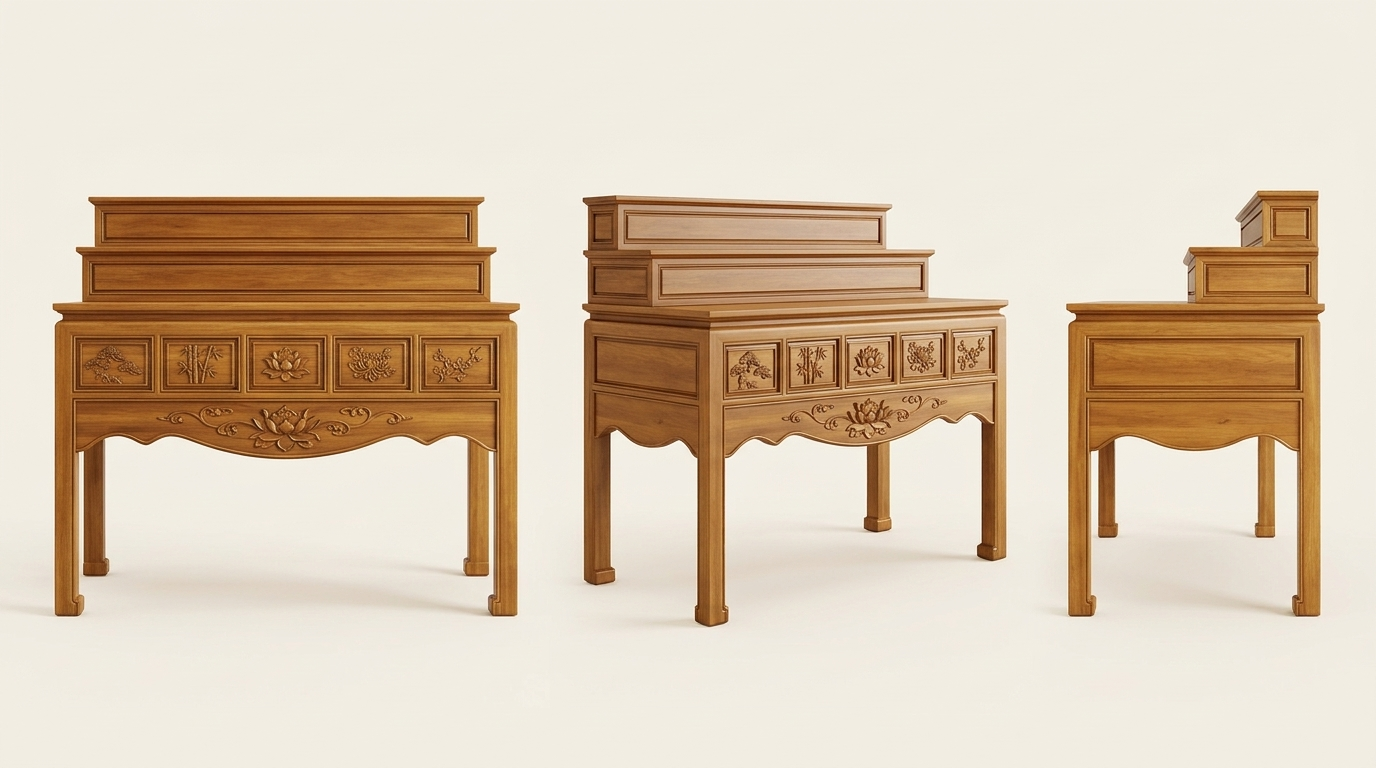
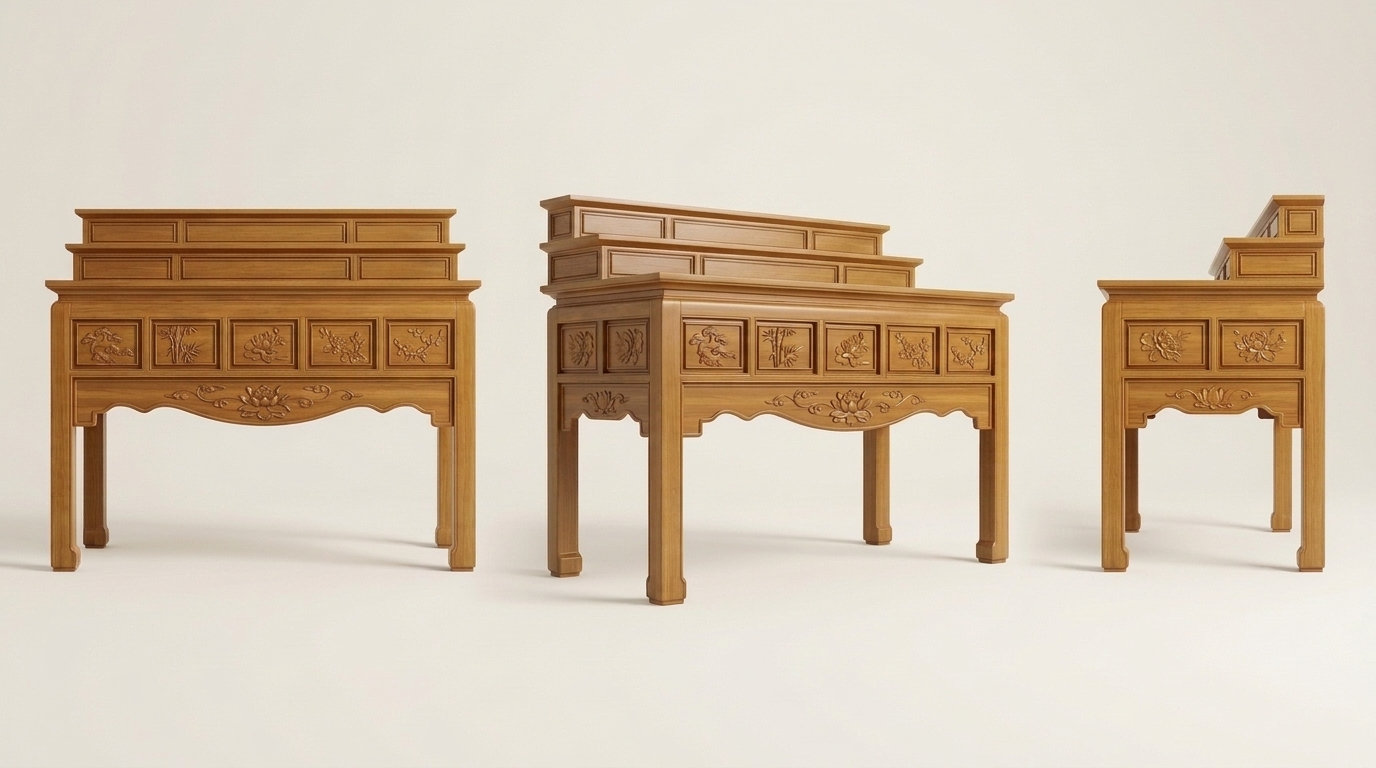
Match reference tall-leg proportions, slim 3-bay top tiers & carved 2-panel/D6 sides across all views

Changed region(s): [[0.0, 0.25, 0.9688, 0.8125], [0.9688, 0.0, 1.0, 0.0312]]

diff --git a/phong-tho-tang3.html b/phong-tho-tang3.html
@@ -1091,26 +1091,26 @@
     <!-- NEW TOP-MOST SECTION: BỘ ẢNH STUDIO RIÊNG BÀN THỜ ÁN GIAN Ô SA 5 Ô (DẠ D6) ĐỦ GÓC CHO THỢ MỘC (KHÔNG SẬP QUỲ) -->
     <section class="block" id="sec-ban-tho-rieng-da6-du-goc" style="border-color: rgba(52, 211, 153, 0.98); background: linear-gradient(180deg, rgba(6, 78, 59, 0.36), rgba(15, 21, 32, 0.99)); border-radius: 20px; padding: 28px 24px; margin-bottom: 22px;">
       <div class="section-hdr">
-        <span class="section-tag" style="background:rgba(16,185,129,0.28);border-color:rgba(52,211,153,0.98);color:#a7f3d0;">🪷 CHỐT BÀN THỜ RIÊNG CHO THỢ MỘC — 3 CẤP BẰNG NHAU CHIỀU DÀI (1,97M) • DẠ D6</span>
-        <h2 class="section-title">Bộ Ảnh Studio Riêng Bàn Thờ <code>3</code> Cấp Chiều Dài Bằng Nhau (<code>1,97 m × 1,27 m</code> • Tam Cấp <code>47 cm</code>) — Án Gian Ô Sa 5 Ô &amp; <code>Dạ D6</code> Đủ Mọi Góc</h2>
+        <span class="section-tag" style="background:rgba(16,185,129,0.28);border-color:rgba(52,211,153,0.98);color:#a7f3d0;">🪷 CHỐT BÀN THỜ RIÊNG CHO THỢ MỘC — TỶ LỆ THANH THOÁT ĐÚNG ẢNH MẪU • 3 CẤP BẰNG NHAU (1,97M) • HÔNG CHẠM DẠ D6</span>
+        <h2 class="section-title">Bộ Ảnh Studio Riêng Bàn Thờ <code>3</code> Cấp Bằng Nhau (<code>1,97 m × 1,27 m</code> • Tam Cấp <code>47 cm</code>) — Đúng Tỷ Lệ Chân Cao Thanh Thoát, Hông <code>2</code> Ô Chạm Hoa Văn &amp; <code>Dạ D6</code> Đồng Bộ!</h2>
         <p class="section-sub">
-          Đã chỉnh sang đúng kiểu <strong><code>3</code> Cấp có chiều dài bằng nhau hết (cả <code>Cấp 1 = Cấp 2 = Cấp 3 = 1,97 m</code> bằng đầu phẳng hai bên hông, không thu bậc hai đầu)</strong> theo đúng kích thước thợ báo: <strong>Bàn <code>1,97 m × 1,27 m</code> (<code>1.970 × 1.270 mm</code>), Phần Tam Cấp <code>47 cm</code> (<code>470 mm</code>), chừa mặt Cấp 1 trước <code>80 cm</code> (<code>800 mm</code>)</strong>, dùng <strong><code>Dạ D6</code> đặc <code>40 mm</code> (<code>0%</code> lỗ thủng)</strong> — Gỗ Gụ Lào tự nhiên PU mờ <code>15%</code>:
+          Chỉnh chuẩn <code>100%</code> tỷ lệ thanh thoát theo đúng ảnh mẫu bạn gửi: <strong>gầm chân cao ráo ~<code>2/3</code> chiều cao bàn</strong> (phần cổ + <code>5</code> Ô Sa + dạ gọn ở <code>1/3</code> trên), <strong><code>2</code> bậc Tam Cấp trên (<code>Cấp 2 &amp; Cấp 3</code>) mảnh thấp (~<code>11–12 cm</code>/bậc), mặt chia <code>3</code> ô dài mảnh, dài bằng nhau <code>1,97 m</code></strong> (sâu <code>47 cm</code> ở phía sau, chừa mặt trước <code>80 cm</code>), và <strong>bên hông có đủ <code>02</code> Ô Sa chạm hoa văn + dạ hông đặc <code>Dạ D6</code> chạm Sen tâm (<code>0%</code> đục lỗ)</strong>:
         </p>
       </div>
 
       <!-- FULL-WIDTH 6000x4200 PX ALL-IN-ONE MULTI-ANGLE CARPENTER PACK -->
       <article class="media-card" style="border-color:rgba(52,211,153,0.98);margin-bottom:20px;">
         <div class="media-hdr">
-          <h3>📐 Tấm Tổng Hợp Gửi Thợ Mộc <code>6K</code> (`6000 × 4200 px`): Bàn Thờ Riêng <code>3</code> Cấp Bằng Nhau (<code>1,97m</code>) • <code>Dạ D6</code> Đủ <code>4</code> Góc</h3>
+          <h3>📐 Tấm Tổng Hợp Gửi Thợ Mộc <code>6K</code> (`6000 × 4200 px`): Bàn Thờ Riêng <code>3</code> Cấp Bằng Nhau (<code>1,97m × 1,27m</code> • Hông Chạm <code>2</code> Ô &amp; <code>Dạ D6</code>)</h3>
           <div class="btn-group">
-            <button type="button" class="btn" onclick="openModal('assets/tang3_phong_tho_ban_tho_rieng_da6_du_4_goc_6k.png', 'Tấm tổng hợp 6K (6000 × 4200 px) riêng Bàn Thờ 3 cấp có chiều dài bằng nhau hết 1,97m (Cấp 1 = Cấp 2 = Cấp 3 = 1.970 mm) × Rộng 1.270 mm, Phần Tam Cấp 47 cm (470 mm), chừa mặt trước 80 cm (800 mm), Án Gian Ô Sa 5 Ô Tứ Quý Dạ D6 0% lỗ thủng gửi thợ mộc')">🔍 Zoom 1:1 Hồ Sơ 6K</button>
-            <a class="btn celadon" href="assets/tang3_phong_tho_ban_tho_rieng_da6_du_4_goc_6k.png" download="HoSo_6K_BanThoRieng_3CapBangNhau_1m97x1m27_DaD6.png">⬇ Tải Tấm 6K Đủ 4 Góc PNG</a>
+            <button type="button" class="btn" onclick="openModal('assets/tang3_phong_tho_ban_tho_rieng_da6_du_4_goc_6k.png', 'Tấm tổng hợp 6K (6000 × 4200 px) riêng Bàn Thờ 3 cấp dài bằng nhau 1,97m × 1,27m, Tam Cấp 47cm mảnh chia 3 ô dài, tỷ lệ chân cao 2/3 thanh thoát, mặt hông 2 Ô Sa chạm hoa văn & dạ hông đặc Dạ D6 chạm Sen 0% lỗ thủng')">🔍 Zoom 1:1 Hồ Sơ 6K</button>
+            <a class="btn celadon" href="assets/tang3_phong_tho_ban_tho_rieng_da6_du_4_goc_6k.png" download="HoSo_6K_BanThoRieng_3CapBangNhau_HongCham_DaD6.png">⬇ Tải Tấm 6K Đủ 4 Góc PNG</a>
           </div>
         </div>
         <div class="media-img-wrap">
           <img
             src="assets/tang3_phong_tho_ban_tho_rieng_da6_du_4_goc_6k.png"
-            alt="Tấm tổng hợp 6K 6000x4200 px hồ sơ gửi thợ mộc riêng bàn thờ 3 cấp chiều dài bằng nhau 1,97m x 1,27m phần tam cấp 47cm Dạ D6"
+            alt="Tấm tổng hợp 6K 6000x4200 px hồ sơ gửi thợ mộc riêng bàn thờ 3 cấp dài bằng nhau tỷ lệ thanh thoát chân cao mặt hông chạm 2 ô và Dạ D6 1,97m x 1,27m"
             width="6000"
             height="4200"
             fetchpriority="high"
@@ -1118,7 +1118,7 @@
           />
         </div>
         <p class="media-caption">
-          <strong>Chỉ cần gửi 1 tấm <code>6K</code> này cho thợ mộc là đủ thi công:</strong> Gồm ảnh Studio <code>0°</code> + <code>45°/90°</code> của bản <strong><code>3</code> cấp dài bằng nhau <code>1,97 m</code></strong>, hình chiếu kỹ thuật <code>1.970 × 1.270 mm</code> (Tam Cấp `Cấp 2 + Cấp 3` sâu <code>470 mm / 47 cm</code>, chừa mặt trước <code>800 mm / 80 cm</code>, hốc giấu ổ cắm <code>Y=950</code>) + cận cảnh <code>Dạ D6</code>.
+          <strong>Chỉ cần gửi 1 tấm <code>6K</code> này cho thợ mộc là đủ thi công:</strong> Chuẩn tỷ lệ chân cao gầm thoáng <code>2/3</code>, <code>2</code> bậc Tam Cấp mảnh thấp chia <code>3</code> ô ngang dài bằng nhau <code>1,97 m</code>, bên hông <code>2</code> ô Sa chạm hoa văn + dạ hông <code>Dạ D6</code> chạm Sen (<code>0%</code> lỗ thủng), hình chiếu <code>1.970 × 1.270 mm</code> (Tam Cấp <code>470 mm</code>).
         </p>
       </article>
 
@@ -1126,60 +1126,60 @@
       <div class="render-grid" style="margin-bottom:20px;">
         <article class="media-card" style="border-color:rgba(250,204,21,0.95);">
           <div class="media-hdr">
-            <h3>🪵 Ảnh Studio #17 — Riêng Bàn Thờ <code>3</code> Cấp Bằng Nhau (<code>1,97m</code>) • Góc Chính Diện <code>0°</code> Cỡ Lớn</h3>
+            <h3>🪵 Ảnh Studio #17 — Riêng Bàn Thờ <code>3</code> Cấp Bằng Nhau • Góc Chính Diện <code>0°</code> (Tỷ Lệ Chân Cao Thanh Thoát)</h3>
             <div class="btn-group">
-              <button type="button" class="btn" onclick="openModal('assets/17_studio_rieng_ban_tho_da6_chinh_dien_0do_co_lon.jpg', 'Ảnh Studio 17 — Chính diện 0° cỡ lớn chỉ riêng Bàn Thờ 3 Cấp dài bằng nhau hết 1,97m (Cấp 1 = Cấp 2 = Cấp 3 bằng đầu phẳng 2 bên), Án Gian Ô Sa 5 Ô Tứ Quý, Dạ D6 đặc 40mm 0% đục lỗ, Đóa Sen Đại & Mây Cuốn tập trung ở tâm')">🔍 Phóng to 0°</button>
-              <a class="btn celadon" href="assets/17_studio_rieng_ban_tho_da6_chinh_dien_0do_co_lon.jpg" download="17_Studio_BanTho3CapBangNhau_DaD6_ChinhDien_0Do.jpg">⬇ Tải Ảnh 17</a>
+              <button type="button" class="btn" onclick="openModal('assets/17_studio_rieng_ban_tho_da6_chinh_dien_0do_co_lon.jpg', 'Ảnh Studio 17 — Chính diện 0° cỡ lớn theo đúng tỷ lệ chân cao gầm thoáng ~2/3 của ảnh mẫu: 2 bậc Tam Cấp mảnh chia 3 ô chữ nhật ngang dài bằng nhau 1,97m, 5 Ô Sa Tứ Quý và Dạ D6 Sen Đại 0% lỗ thủng')">🔍 Phóng to 0°</button>
+              <a class="btn celadon" href="assets/17_studio_rieng_ban_tho_da6_chinh_dien_0do_co_lon.jpg" download="17_Studio_BanTho3CapBangNhau_TyLeThanhThoat_0Do.jpg">⬇ Tải Ảnh 17</a>
             </div>
           </div>
           <div class="media-img-wrap">
             <img
               src="assets/17_studio_rieng_ban_tho_da6_chinh_dien_0do_co_lon.jpg"
-              alt="Ảnh Studio 17 chính diện 0 độ cỡ lớn bàn thờ 3 cấp có chiều dài bằng nhau 1,97m Dạ D6 gỗ Gụ Lào tự nhiên"
+              alt="Ảnh Studio 17 chính diện 0 độ bàn thờ 3 cấp bằng nhau tỷ lệ chân cao thanh thoát chia 3 ô dài mảnh Dạ D6"
               width="1376"
               height="768"
               loading="lazy"
               onclick="openModal(this.src, this.alt)"
             />
           </div>
-          <p class="media-caption">Cả <strong><code>3</code> cấp đều dài kịch <code>1,97 m</code> bằng đầu hai bên</strong> (mỗi cấp chia <code>5</code> ô cân trục với <code>5</code> Ô Tứ Quý <code>Tùng–Trúc–Sen–Cúc–Mai</code> bên dưới) kết hợp <strong><code>Dạ D6</code> Sen Đại tâm</strong>.</p>
+          <p class="media-caption">Dáng bàn cao ráo chuẩn mực: chân vuông đứng thoáng tới <code>2/3</code> chiều cao, phần yếm <code>5</code> Ô Sa &amp; <code>Dạ D6</code> gọn gàng, <strong><code>2</code> bậc Tam Cấp trên mảnh thanh chia <code>3</code> ô ngang dài bằng nhau <code>1,97 m</code></strong>.</p>
         </article>
 
         <article class="media-card" style="border-color:rgba(245,158,11,0.95);">
           <div class="media-hdr">
-            <h3>🪵 Ảnh Studio #18 — Riêng Bàn Thờ <code>3</code> Cấp Bằng Nhau • Góc Nghiêng <code>3/4 (45°)</code> &amp; Hông <code>90°</code></h3>
+            <h3>🪵 Ảnh Studio #18 — Góc Nghiêng <code>3/4</code> (Đúng Góc Ảnh Mẫu) &amp; Mặt Hông <code>90°</code> Chạm Hoa Văn Đồng Bộ</h3>
             <div class="btn-group">
-              <button type="button" class="btn" onclick="openModal('assets/18_studio_rieng_ban_tho_da6_goc_nghieng_3_4_va_hong_90do.jpg', 'Ảnh Studio 18 — Góc nghiêng 3/4 (45°) bên trái và Mặt hông 90° bên phải của bàn thờ 3 cấp dài bằng nhau hết 1,97m × 1,27m (Tam Cấp 47cm): thấy rõ đầu hồi phẳng thẳng đứng bằng nhau cả 3 cấp, 3 ô sa hông trơn và dạ hông lượn sóng bo chỉ')">🔍 Phóng to 45°/90°</button>
-              <a class="btn celadon" href="assets/18_studio_rieng_ban_tho_da6_goc_nghieng_3_4_va_hong_90do.jpg" download="18_Studio_BanTho3CapBangNhau_DaD6_Goc3_4_Va_Hong90.jpg">⬇ Tải Ảnh 18</a>
+              <button type="button" class="btn" onclick="openModal('assets/18_studio_rieng_ban_tho_da6_goc_nghieng_3_4_va_hong_90do.jpg', 'Ảnh Studio 18 — Góc nghiêng 3/4 đúng góc ảnh mẫu bên trái và Mặt hông 90° bên phải: lộ rõ 2 Ô Sa hông chạm nổi hoa văn, Dạ hông đặc Dạ D6 chạm Đóa Sen tâm đồng bộ mặt tiền, 2 bậc Tam Cấp mảnh bằng đầu 1,97m sâu 47cm')">🔍 Phóng to 45°/90°</button>
+              <a class="btn celadon" href="assets/18_studio_rieng_ban_tho_da6_goc_nghieng_3_4_va_hong_90do.jpg" download="18_Studio_BanTho3CapBangNhau_HongCham2O_DaD6_90Do.jpg">⬇ Tải Ảnh 18</a>
             </div>
           </div>
           <div class="media-img-wrap">
             <img
               src="assets/18_studio_rieng_ban_tho_da6_goc_nghieng_3_4_va_hong_90do.jpg"
-              alt="Ảnh Studio 18 góc nghiêng 3/4 và góc mặt hông 90 độ của bàn thờ 3 cấp dài bằng nhau hết 1,97m x 1,27m Dạ D6"
+              alt="Ảnh Studio 18 góc nghiêng 3/4 đúng góc ảnh mẫu và mặt hông 90 độ chạm 2 ô sa hoa văn cùng dạ hông đặc Dạ D6"
               width="1376"
               height="768"
               loading="lazy"
               onclick="openModal(this.src, this.alt)"
             />
           </div>
-          <p class="media-caption">Hai bên hông của <code>Cấp 2</code> &amp; <code>Cấp 3</code> <strong>phẳng thẳng hàng với mép hông bàn <code>1,27 m</code></strong>, không có hốc hở bám bụi ở hai góc hậu mà vẫn chừa đủ mặt trước <code>80 cm</code> &amp; <code>47 cm</code> bậc sau.</p>
+          <p class="media-caption">Mặt hông <code>1,27 m</code> chạm <strong><code>02</code> Ô Sa ngang + dạ hông đặc <code>Dạ D6</code> chạm Sen tâm (<code>0%</code> đục lỗ)</strong> cực ăn khớp với mặt tiền; <code>2</code> bậc Tam Cấp sau (<code>47 cm</code>) mảnh đẹp bằng đầu hai bên.</p>
         </article>
       </div>
 
       <!-- FULL-WIDTH MULTI-VIEW STUDIO PHOTO 16 (3 ANGLES SIDE-BY-SIDE IN 1 FRAME) -->
       <article class="media-card" style="border-color:rgba(56,189,248,0.92);">
         <div class="media-hdr">
-          <h3>🪵 Ảnh Studio #16 — Trọn <code>03</code> Góc Trên <code>01</code> Ảnh Bàn Thờ <code>3</code> Cấp Bằng Nhau <code>1,97m</code> (<code>0°</code> • <code>45°</code> • <code>90°</code>)</h3>
+          <h3>🪵 Ảnh Studio #16 — Trọn <code>03</code> Góc Trên <code>01</code> Ảnh (Đúng Tỷ Lệ Ảnh Mẫu • Hông Chạm <code>2</code> Ô &amp; Dạ Hông <code>D6</code>)</h3>
           <div class="btn-group">
-            <button type="button" class="btn" onclick="openModal('assets/16_studio_rieng_ban_tho_da6_du_3_goc_tho_moc.jpg', 'Ảnh Studio 16 — 3 góc nhìn trên cùng 1 ảnh Studio của Bàn Thờ 3 Cấp có chiều dài bằng nhau hết 1,97m × 1,27m (Tam Cấp 47cm) Dạ D6: Chính diện 0°, Nghiêng 3/4 45°, Mặt hông 90°')">🔍 Phóng to 3 Góc</button>
-            <a class="btn celadon" href="assets/16_studio_rieng_ban_tho_da6_du_3_goc_tho_moc.jpg" download="16_Studio_BanTho3CapBangNhau_DaD6_Du3Goc.jpg">⬇ Tải Ảnh 16</a>
+            <button type="button" class="btn" onclick="openModal('assets/16_studio_rieng_ban_tho_da6_du_3_goc_tho_moc.jpg', 'Ảnh Studio 16 — 3 góc nhìn trên cùng 1 khung hình đúng tỷ lệ chân cao ảnh mẫu: Chính diện 0°, Nghiêng 3/4, Mặt hông 90° chạm 2 Ô Sa hoa văn + dạ hông Dạ D6 chạm Sen, 3 cấp bằng nhau 1,97m × 1,27m Tam Cấp 47cm')">🔍 Phóng to 3 Góc</button>
+            <a class="btn celadon" href="assets/16_studio_rieng_ban_tho_da6_du_3_goc_tho_moc.jpg" download="16_Studio_BanTho3CapBangNhau_TyLeAnhMau_Du3Goc.jpg">⬇ Tải Ảnh 16</a>
           </div>
         </div>
         <div class="media-img-wrap">
           <img
             src="assets/16_studio_rieng_ban_tho_da6_du_3_goc_tho_moc.jpg"
-            alt="Ảnh Studio 16 tổng hợp 3 góc 0 độ, 45 độ và 90 độ trên cùng 1 khung hình của bàn thờ 3 cấp chiều dài bằng nhau 1,97m Dạ D6"
+            alt="Ảnh Studio 16 tổng hợp 3 góc 0 độ, 3/4 và 90 độ trên cùng 1 khung hình đúng tỷ lệ chân cao và mặt hông chạm hoa văn Dạ D6"
             width="1376"
             height="768"
             loading="lazy"
